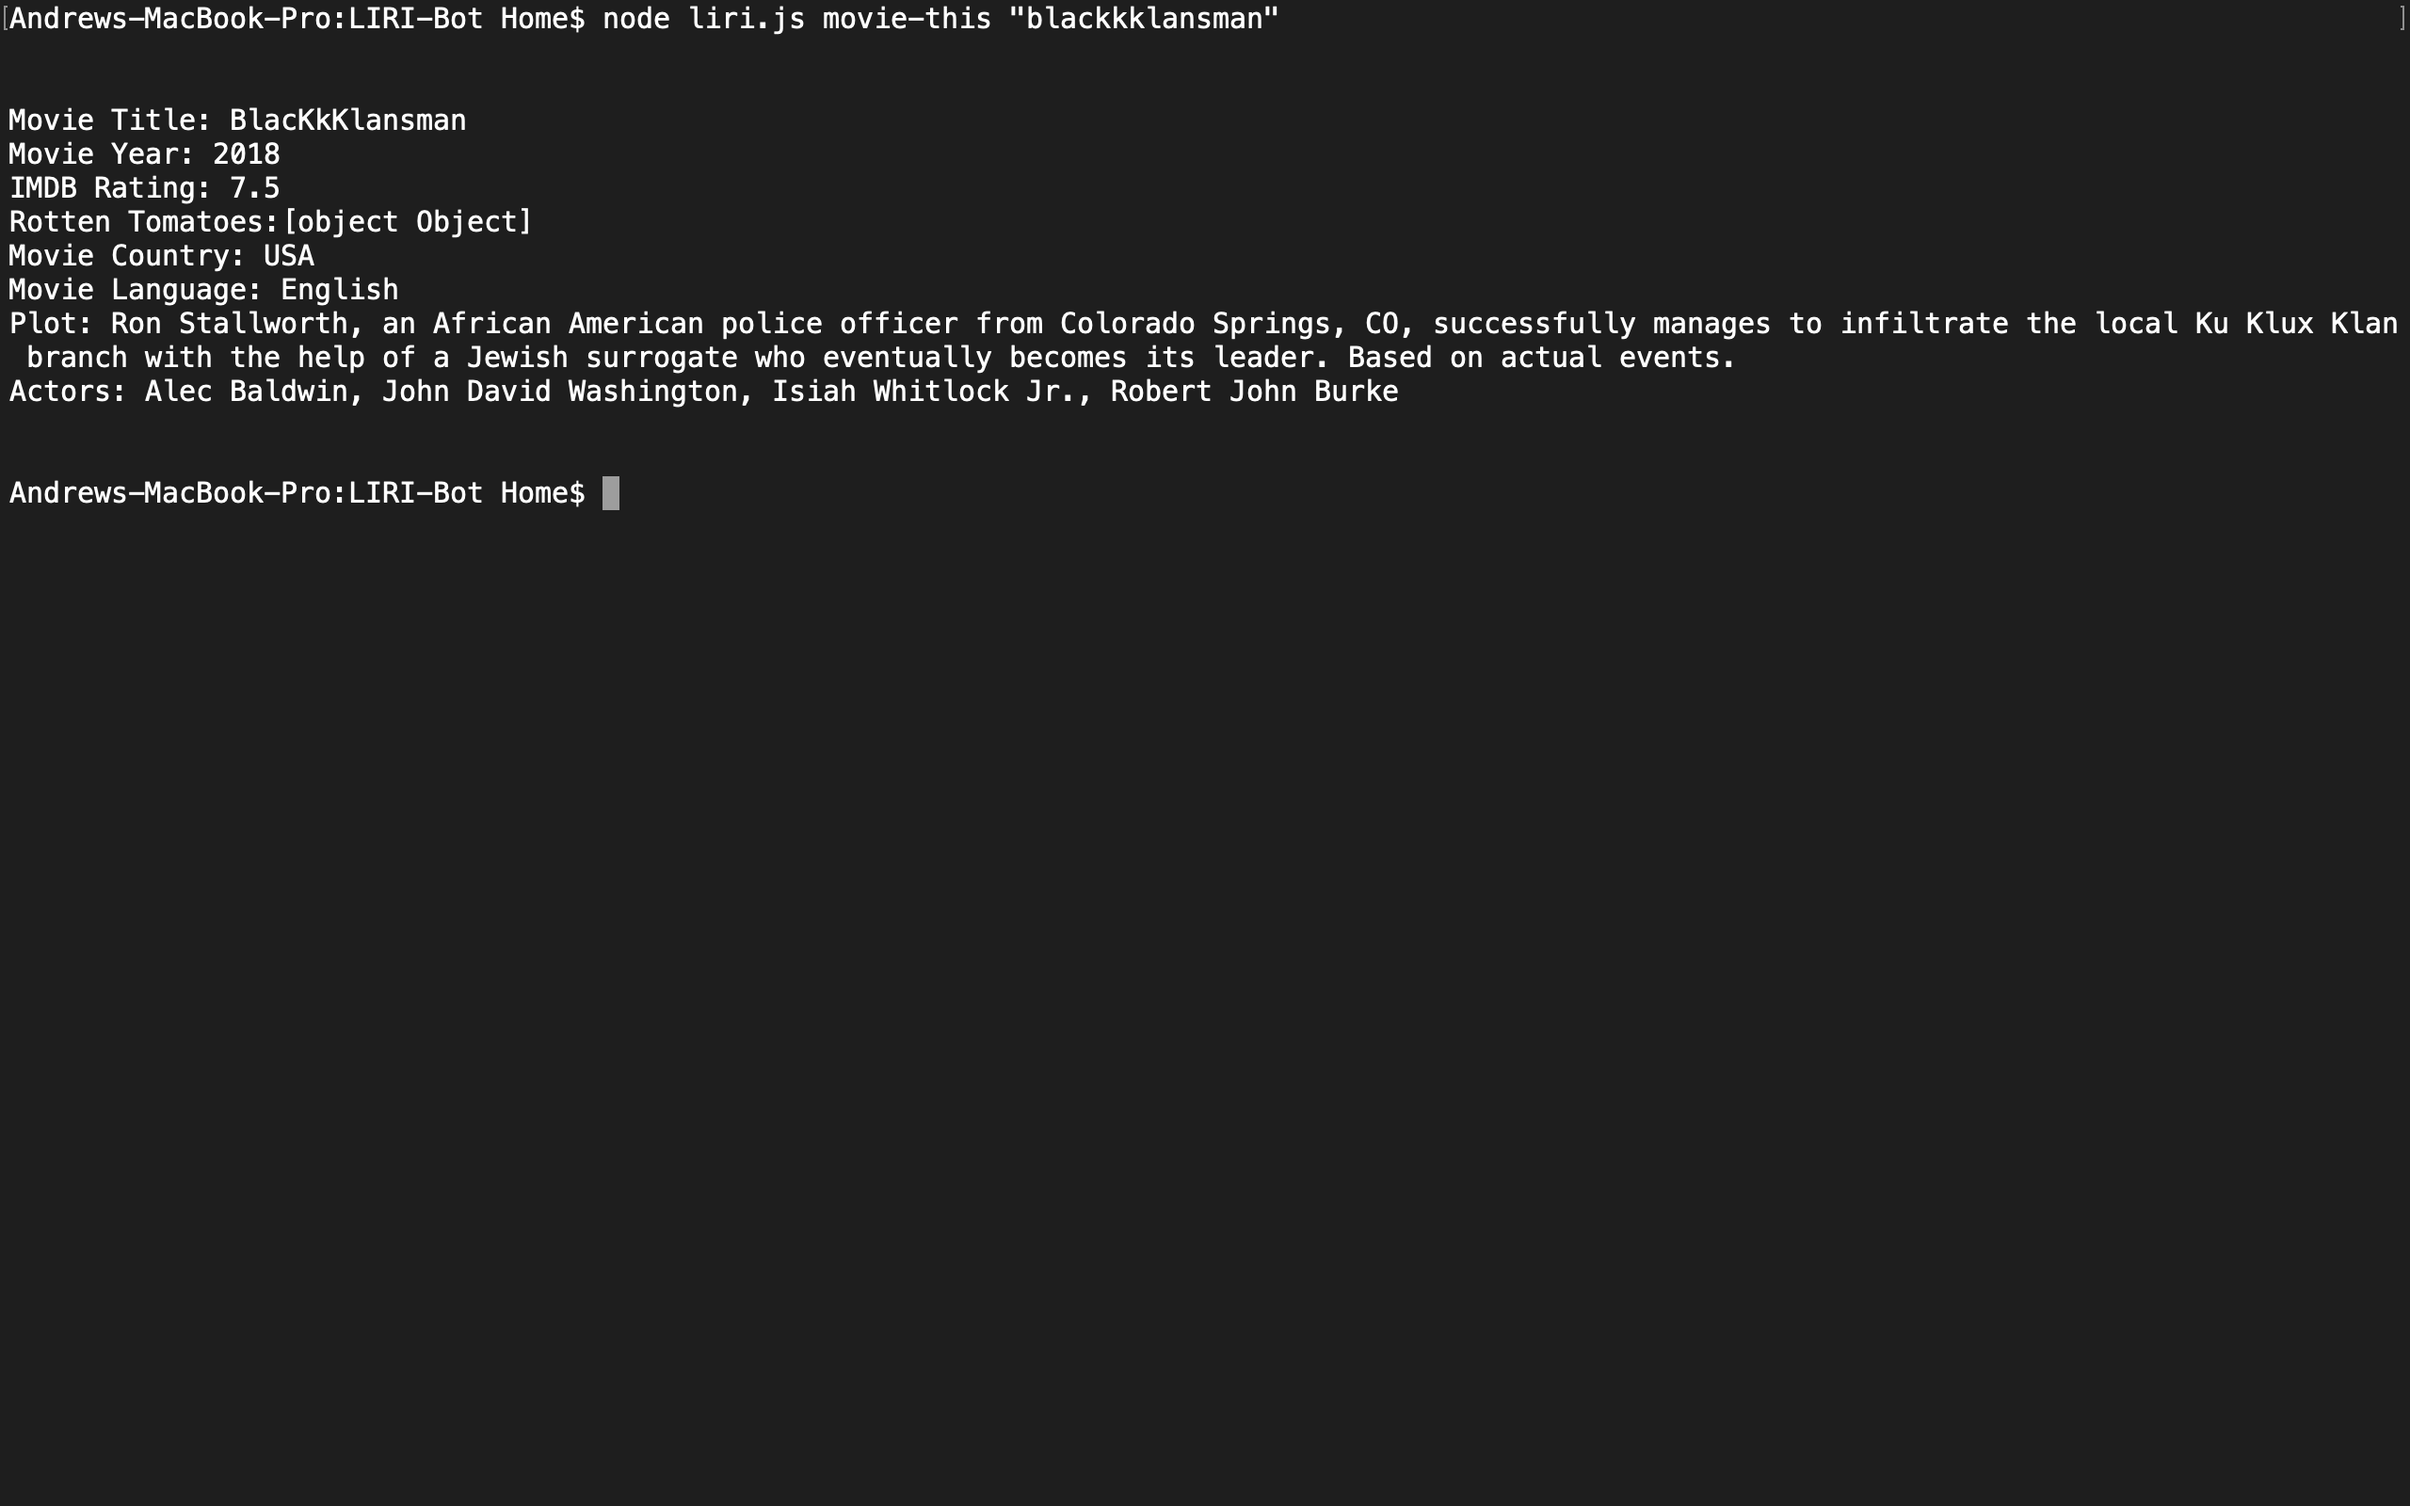
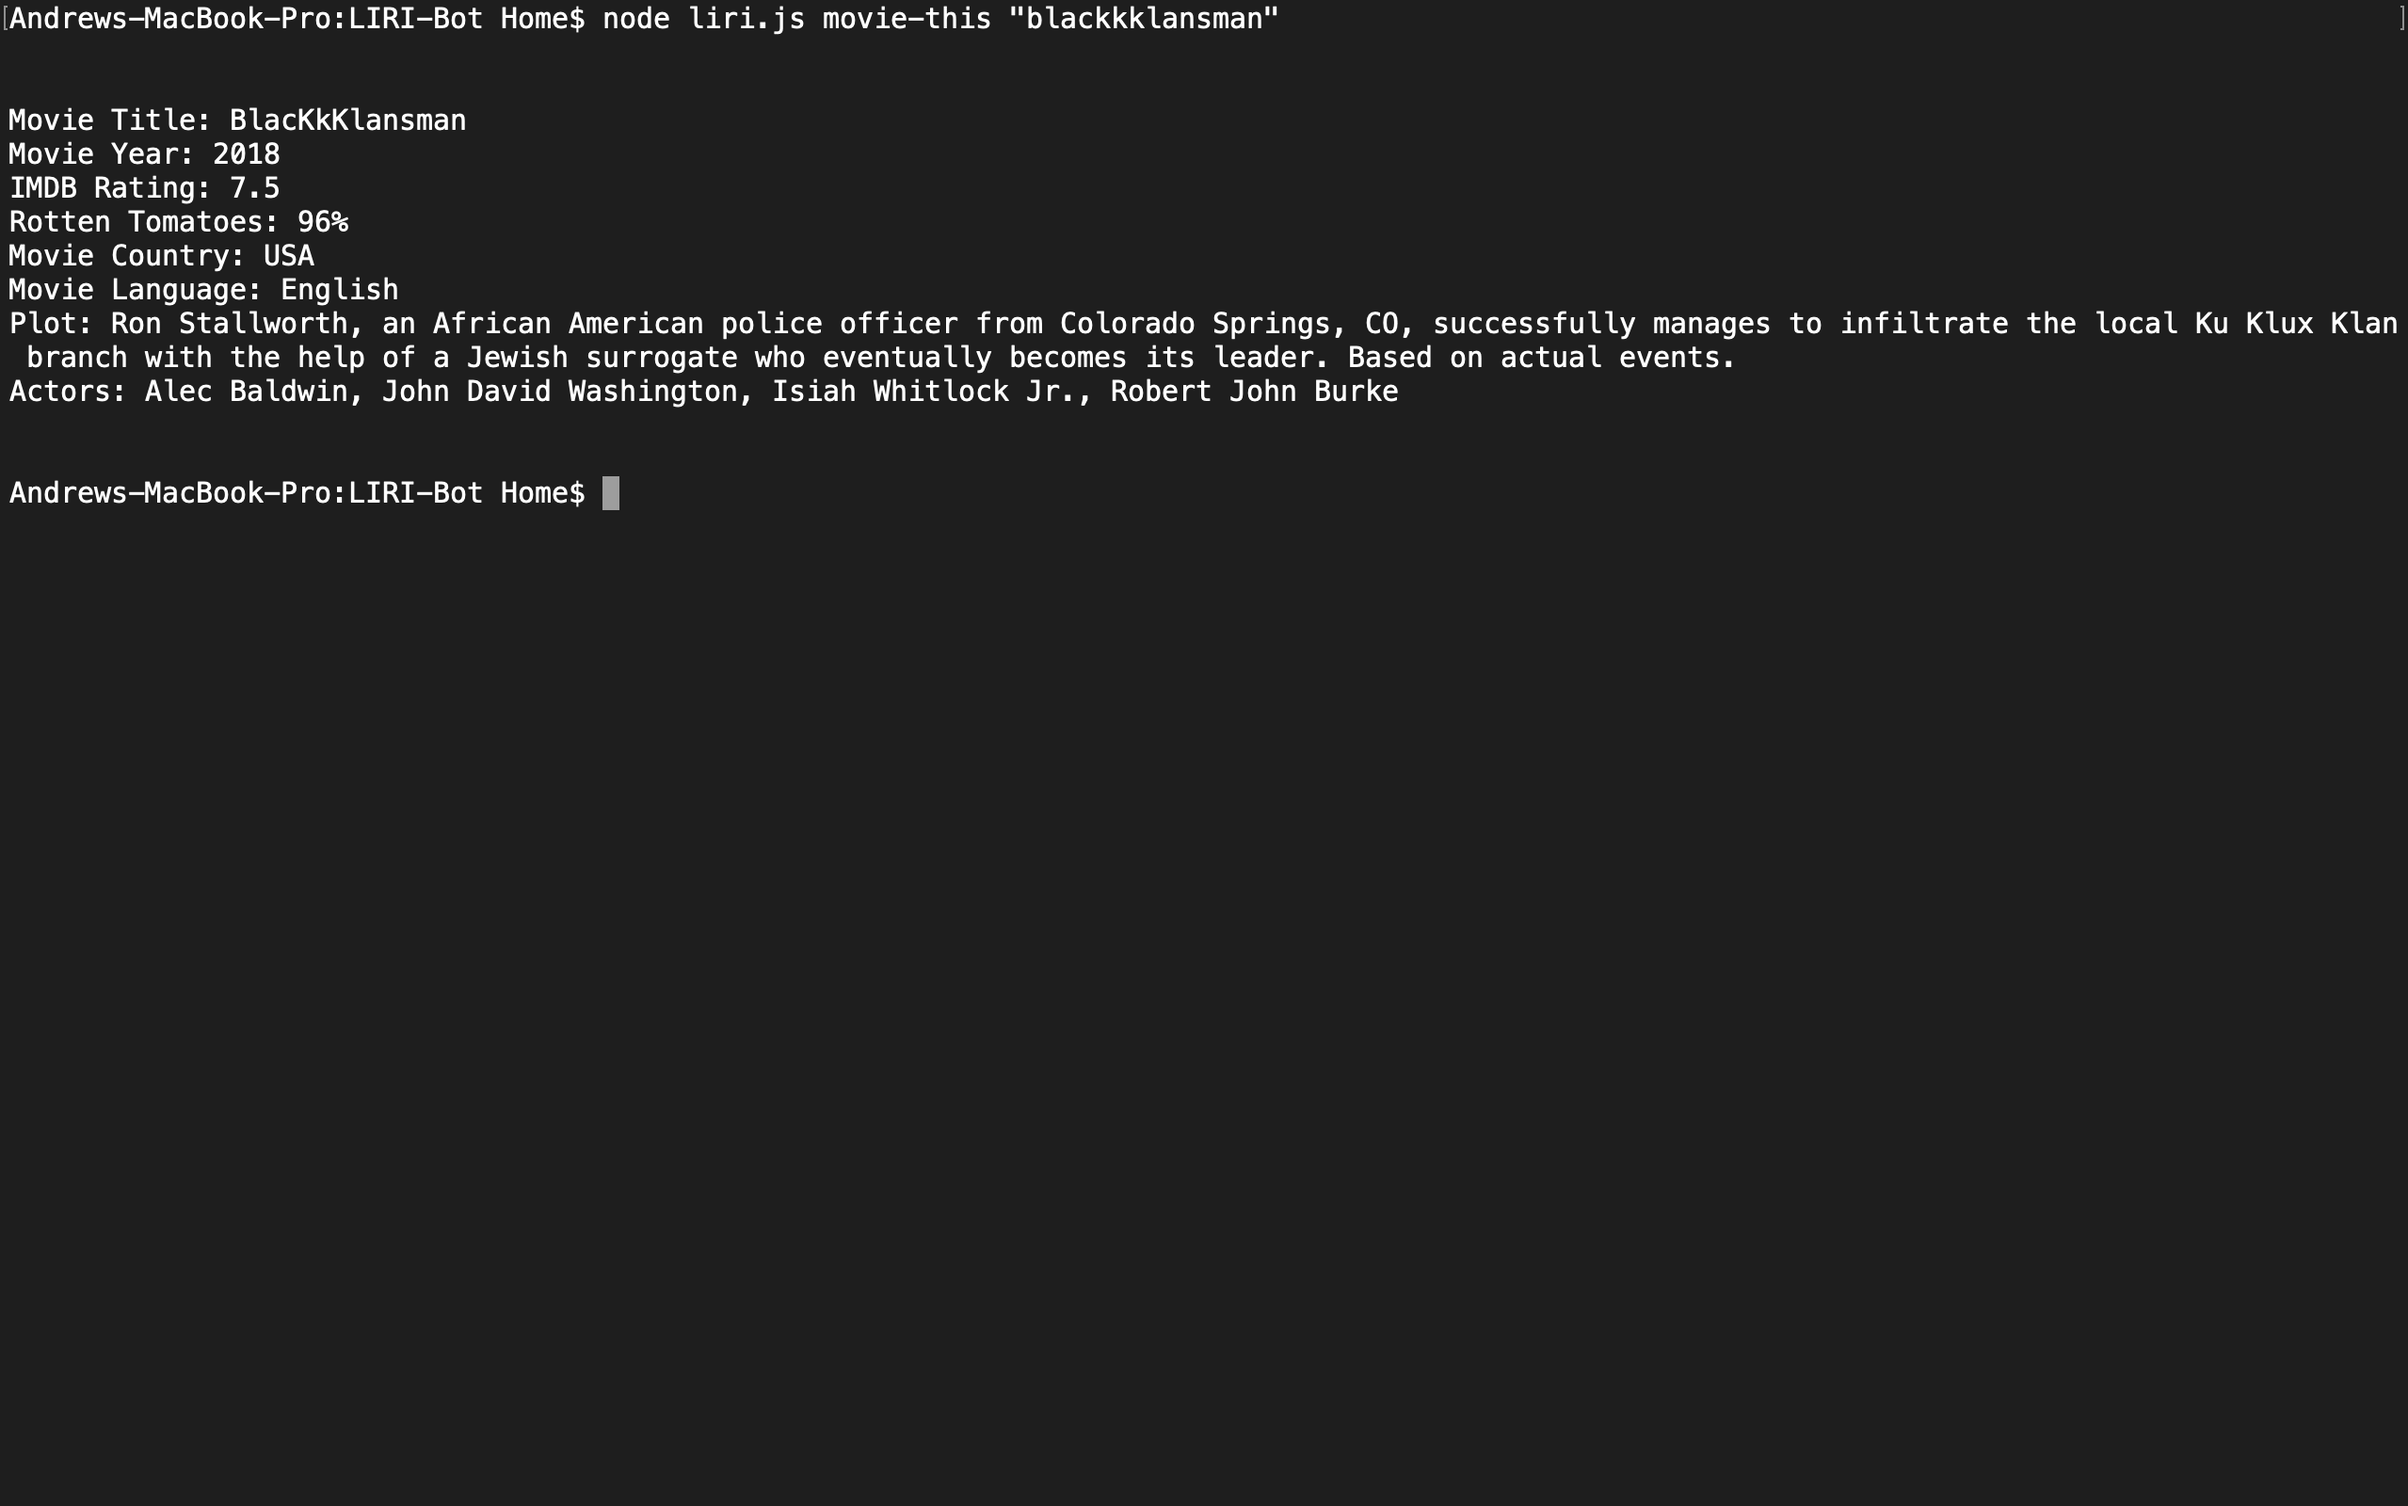
updated rotten tomatoes to show the value and not object, object. screenshot also updated

diff --git a/liri.js b/liri.js
@@ -66,7 +66,7 @@ var movieThis = function () {
             console.log("Movie Title: " + response.data.Title);
             console.log("Movie Year: " + response.data.Year);
             console.log("IMDB Rating: " + response.data.imdbRating);
-            console.log("Rotten Tomatoes:" + response.data.Ratings[1]);
+            console.log("Rotten Tomatoes: " + response.data.Ratings[1].Value);
             console.log("Movie Country: " + response.data.Country);
             console.log("Movie Language: " + response.data.Language);
             console.log("Plot: " + response.data.Plot);

diff --git a/README.md b/README.md
@@ -26,6 +26,7 @@ Enter the folowing into the command line to return data:
         - venue location
         - date of the event. Moment was used to reformat the date to (MM/DD/YYYY)
 
+
 - spotify-this-song:
     - uses Spotify API to return:
         - Artist(s)
